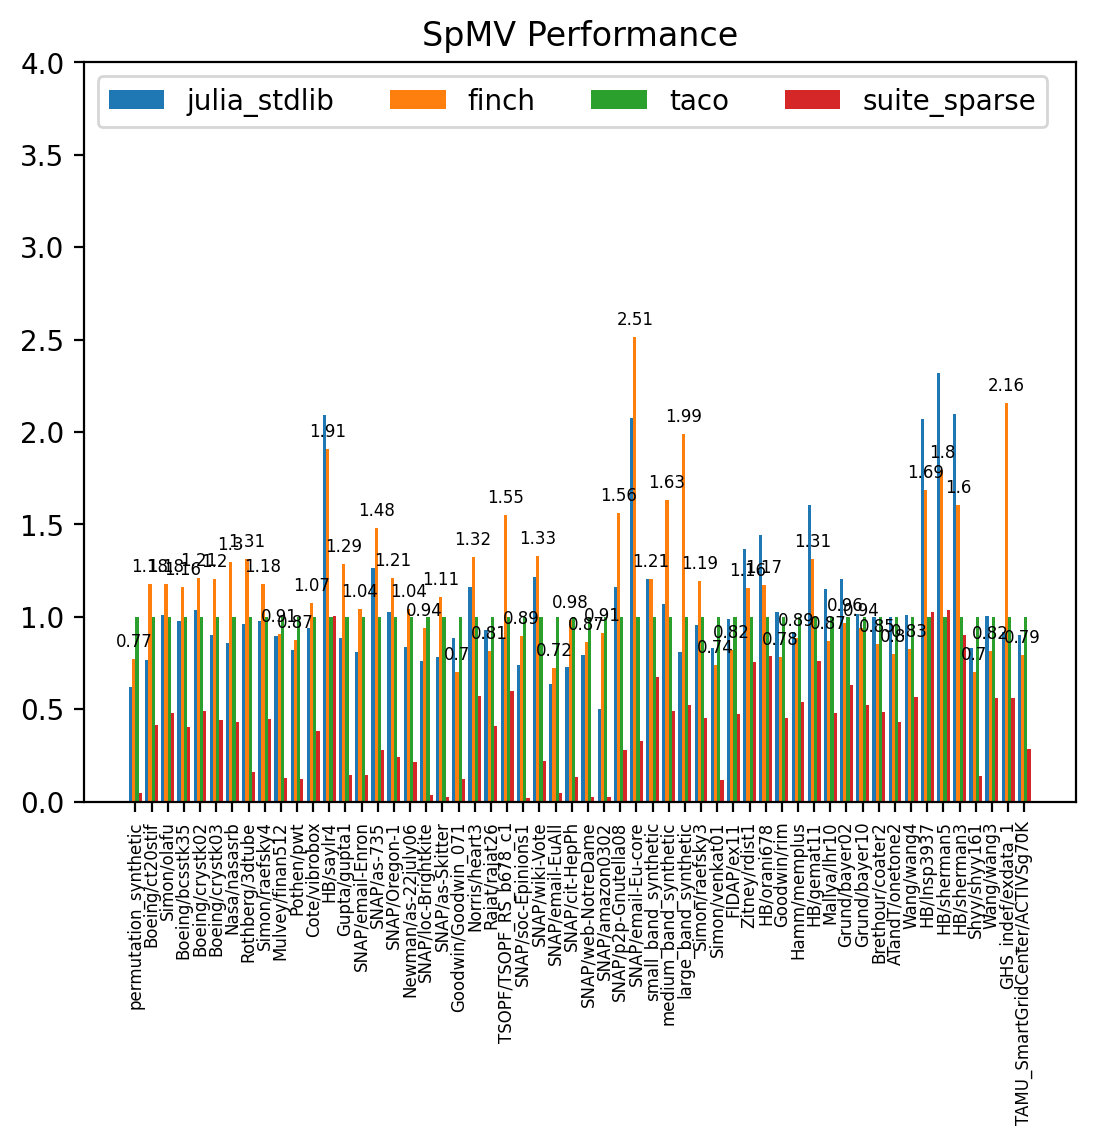
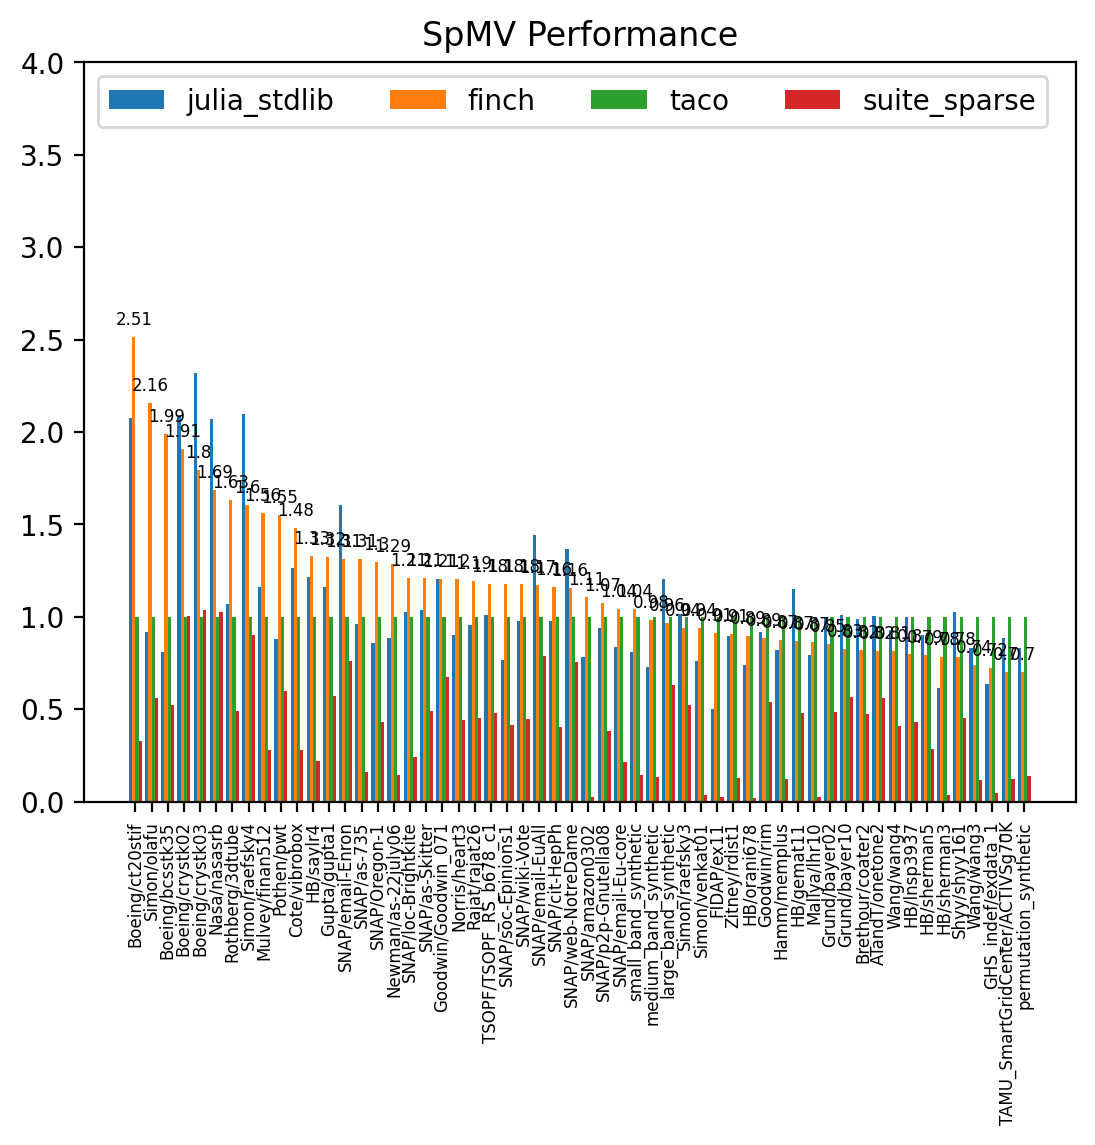
Order matrices by Finch speedup

diff --git a/spmv/chart.py b/spmv/chart.py
@@ -8,6 +8,18 @@ from collections import defaultdict
 RESULTS_FILE_PATH = "spmv_results_lanka.json"
 CHARTS_DIRECTORY = "spmv/charts_lanka2/"
 
+def sorted_idx_order(list):
+    return sorted(range(len(list)), key=lambda i: list[i], reverse=True)
+
+def rearrange_by_idx_order(list, idxs):
+    return sorted(list, key=lambda x: idxs.index(list.index(x)))
+
+def find_first_idx_below_value(reverse_sorted_list, value):
+    for i in range(len(reverse_sorted_list)):
+        if reverse_sorted_list[i] < value:
+            return i
+    return -1
+
 def all_formats_chart():
     results = json.load(open(RESULTS_FILE_PATH, 'r'))
     mtxs = []
@@ -31,10 +43,23 @@ def all_formats_chart():
         method_data = data[method]
         data[method] = [ref_data[i] / method_data[i] for i in range(len(ref_data))] 
 
-    make_grouped_bar_chart(methods, mtxs, data, labeled_groups=["finch"], title="SpMV Performance")
+    faster_data = defaultdict(list)
+    slower_data = defaultdict(list)
+    idx_order = sorted_idx_order(data["finch"])
+    order_speedups = rearrange_by_idx_order(data["finch"], idx_order)
+    splice_idx = find_first_idx_below_value(order_speedups, 1.0)
+    for method in methods:
+        method_data = data[method]
+        method_data = rearrange_by_idx_order(method_data, idx_order)
+        faster_data[method] = method_data[:splice_idx]
+        slower_data[method] = method_data[splice_idx:]
 
-    for mtx in mtxs:
-        all_formats_for_matrix_chart(mtx)
+    mtxs = rearrange_by_idx_order(mtxs, idx_order)
+    make_grouped_bar_chart(methods, mtxs[:splice_idx], faster_data, labeled_groups=["finch"], title="SpMV Performance (Faster than TACO)")
+    make_grouped_bar_chart(methods, mtxs[splice_idx:], slower_data, labeled_groups=["finch"], title="SpMV Performance (Slower than TACO)")
+
+    # for mtx in mtxs:
+        # all_formats_for_matrix_chart(mtx)
 
 
 def get_best_finch_format():
@@ -128,7 +153,7 @@ def make_grouped_bar_chart(labels, x_axis, data, labeled_groups = [], title = ""
         offset = width * multiplier
         rects = ax.bar(x + offset, label_data, width, label=label)
         bar_labels = [round(float(val), 2) if label in labeled_groups else "" for val in label_data]
-        ax.bar_label(rects, padding=3, labels=bar_labels, fontsize=6)
+        # ax.bar_label(rects, padding=4, labels=bar_labels, fontsize=5)
         multiplier += 1
 
     ax.set_ylabel(y_label)
@@ -136,7 +161,7 @@ def make_grouped_bar_chart(labels, x_axis, data, labeled_groups = [], title = ""
     ax.set_xticks(x + width * (len(labels) - 1)/2, x_axis)
     ax.tick_params(axis='x', which='major', labelsize=6, labelrotation=90)
     ax.legend(loc='upper left', ncols=4)
-    ax.set_ylim(0, math.ceil(max_height) + 1)
+    ax.set_ylim(0, max_height + 0.5)
 
     fig_file = title.lower().replace(" ", "_") + ".png"
     plt.savefig(CHARTS_DIRECTORY + fig_file, dpi=200, bbox_inches="tight")
@@ -144,19 +169,19 @@ def make_grouped_bar_chart(labels, x_axis, data, labeled_groups = [], title = ""
     
 
 all_formats_chart()
-method_to_ref_comparison_chart("finch", "taco", title="Finch SparseList Symmetric SpMV Performance")
-method_to_ref_comparison_chart("finch_unsym", "taco", title="Finch SparseList SpMV Performance")
-method_to_ref_comparison_chart("finch_unsym_row_maj", "taco", title="Finch SparseList Row Major SpMV Performance")
-method_to_ref_comparison_chart("finch_vbl", "taco", title="Finch SparseVBL Symmetric SpMV Performance")
-method_to_ref_comparison_chart("finch_vbl_unsym", "taco", title="Finch SparseVBL SpMV Performance")
-method_to_ref_comparison_chart("finch_vbl_unsym_row_maj", "taco", title="Finch SparseVBL Row Major SpMV Performance")
-method_to_ref_comparison_chart("finch_band", "taco", title="Finch SparseBand Symmetric SpMV Performance")
-method_to_ref_comparison_chart("finch_band_unsym", "taco", title="Finch SparseBand SpMV Performance")
-method_to_ref_comparison_chart("finch_band_unsym_row_maj", "taco", title="Finch SparseBand Row Major SpMV Performance")
-method_to_ref_comparison_chart("finch_pattern", "taco", title="Finch SparseList Pattern Symmetric SpMV Performance")
-method_to_ref_comparison_chart("finch_pattern_unsym", "taco", title="Finch SparseList Pattern SpMV Performance")
-method_to_ref_comparison_chart("finch_pattern_unsym_row_maj", "taco", title="Finch SparseList Pattern Row Major SpMV Performance")
-method_to_ref_comparison_chart("finch_point", "taco", title="Finch SparsePoint SpMV Performance")
-method_to_ref_comparison_chart("finch_point_row_maj", "taco", title="Finch SparsePoint Row Major SpMV Performance")
-method_to_ref_comparison_chart("finch_point_pattern", "taco", title="Finch SparsePoint Pattern SpMV Performance")
-method_to_ref_comparison_chart("finch_point_pattern_row_maj", "taco", title="Finch SparsePoint Pattern Row Major SpMV Performance")
+# method_to_ref_comparison_chart("finch", "taco", title="Finch SparseList Symmetric SpMV Performance")
+# method_to_ref_comparison_chart("finch_unsym", "taco", title="Finch SparseList SpMV Performance")
+# method_to_ref_comparison_chart("finch_unsym_row_maj", "taco", title="Finch SparseList Row Major SpMV Performance")
+# method_to_ref_comparison_chart("finch_vbl", "taco", title="Finch SparseVBL Symmetric SpMV Performance")
+# method_to_ref_comparison_chart("finch_vbl_unsym", "taco", title="Finch SparseVBL SpMV Performance")
+# method_to_ref_comparison_chart("finch_vbl_unsym_row_maj", "taco", title="Finch SparseVBL Row Major SpMV Performance")
+# method_to_ref_comparison_chart("finch_band", "taco", title="Finch SparseBand Symmetric SpMV Performance")
+# method_to_ref_comparison_chart("finch_band_unsym", "taco", title="Finch SparseBand SpMV Performance")
+# method_to_ref_comparison_chart("finch_band_unsym_row_maj", "taco", title="Finch SparseBand Row Major SpMV Performance")
+# method_to_ref_comparison_chart("finch_pattern", "taco", title="Finch SparseList Pattern Symmetric SpMV Performance")
+# method_to_ref_comparison_chart("finch_pattern_unsym", "taco", title="Finch SparseList Pattern SpMV Performance")
+# method_to_ref_comparison_chart("finch_pattern_unsym_row_maj", "taco", title="Finch SparseList Pattern Row Major SpMV Performance")
+# method_to_ref_comparison_chart("finch_point", "taco", title="Finch SparsePoint SpMV Performance")
+# method_to_ref_comparison_chart("finch_point_row_maj", "taco", title="Finch SparsePoint Row Major SpMV Performance")
+# method_to_ref_comparison_chart("finch_point_pattern", "taco", title="Finch SparsePoint Pattern SpMV Performance")
+# method_to_ref_comparison_chart("finch_point_pattern_row_maj", "taco", title="Finch SparsePoint Pattern Row Major SpMV Performance")
